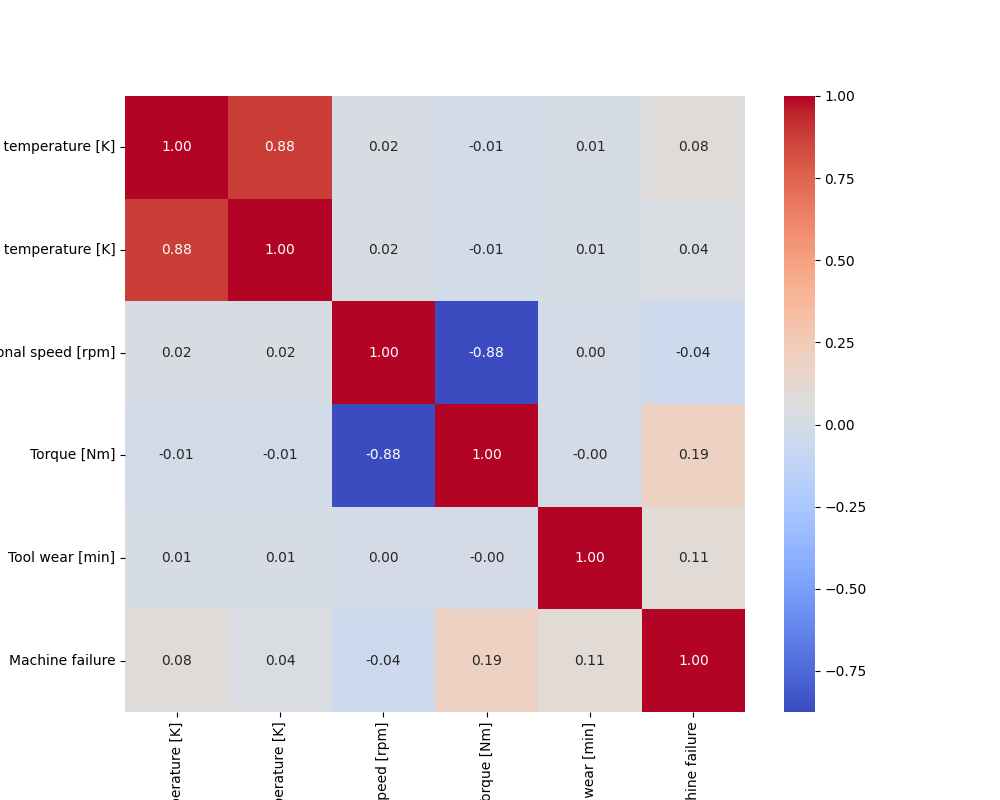
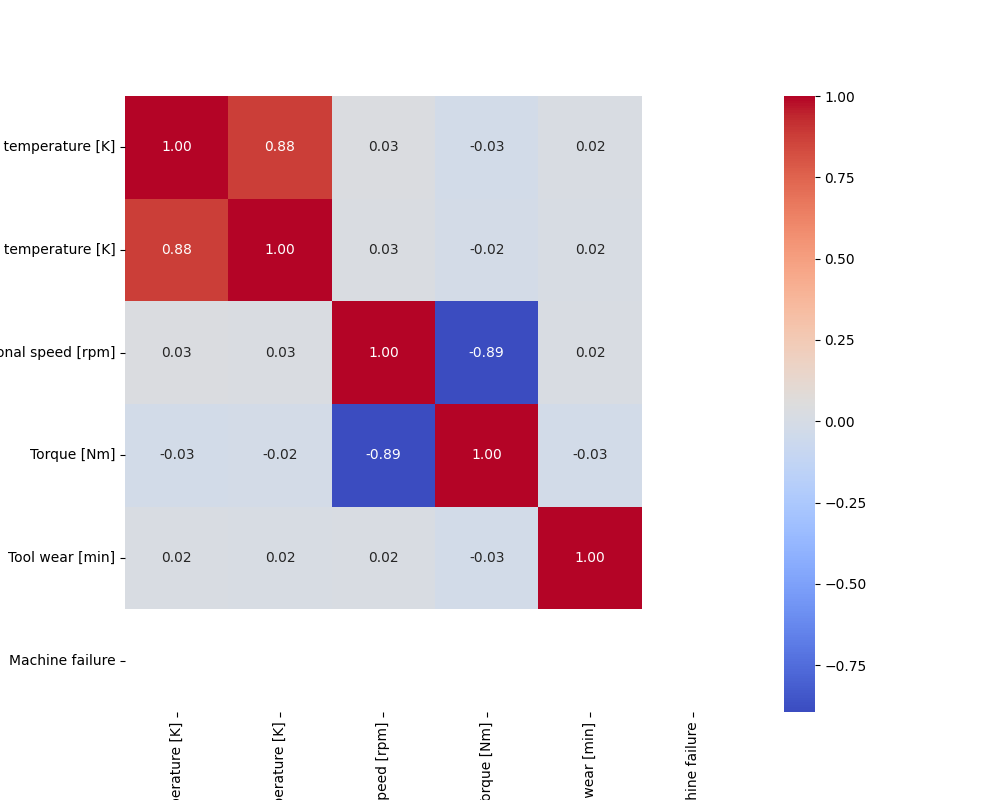
기말고사 보고서

diff --git a/Industrial Safety Prediction Model.py b/Industrial Safety Prediction Model.py
@@ -3,14 +3,25 @@ import matplotlib.pyplot as plt
 import seaborn as sns
 from sklearn.model_selection import train_test_split
 from sklearn.ensemble import RandomForestClassifier
-from sklearn.metrics import accuracy_score, confusion_matrix, mean_squared_error
+from sklearn.metrics import accuracy_score, confusion_matrix
 import os
 
 # 데이터 로드
 file_path = 'data/PredictSafe.csv'
 data = pd.read_csv(file_path)
 
-# 데이터 요약 및 시각화
+# 데이터 전처리 (IQR 방식으로 이상치 처리)
+# 숫자형 데이터에 대해 IQR을 이용한 이상치 제거
+for column in data.columns:
+    if data[column].dtype != 'object':  # 숫자형 데이터에 대해서만 처리
+        Q1 = data[column].quantile(0.25)
+        Q3 = data[column].quantile(0.75)
+        IQR = Q3 - Q1
+        high_limit = Q3 + 1.5 * IQR
+        low_limit = Q1 - 1.5 * IQR
+        data = data[(data[column] <= high_limit) & (data[column] >= low_limit)]
+
+# 데이터 정보 및 통계 확인
 print("데이터 정보:")
 print(data.info())
 print("\n데이터 통계 요약:")
@@ -43,9 +54,16 @@ y_pred = model.predict(X_test)
 
 # 성능 평가
 accuracy = accuracy_score(y_test, y_pred)
-mse = mean_squared_error(y_test, y_pred)
 print(f'Accuracy: {accuracy * 100:.2f}%')
-print(f'Mean Squared Error: {mse:.4f}')
+
+# 성능 평가 그래프
+plt.figure(figsize=(6, 4))
+plt.bar(['Accuracy'], [accuracy], color='green')
+plt.ylim(0, 1)
+plt.title('Model Accuracy')
+plt.ylabel('Accuracy')
+plt.savefig('results/accuracy_graph.png')
+plt.show()
 
 # 혼동 행렬 출력
 conf_matrix = confusion_matrix(y_test, y_pred)
@@ -64,53 +82,4 @@ plt.show()
 # 최종 코드 저장
 os.makedirs('final exam', exist_ok=True)
 final_code_path = 'final exam/Industrial-Safety-Prediction-Model.py'
-with open(final_code_path, 'w') as f:
-    f.write('''"""Final Industrial Safety Prediction Model"""
-import pandas as pd
-import matplotlib.pyplot as plt
-import seaborn as sns
-from sklearn.model_selection import train_test_split
-from sklearn.ensemble import RandomForestClassifier
-from sklearn.metrics import accuracy_score, confusion_matrix
 
-# 데이터 로드
-file_path = 'data/PredictSafe.csv'
-data = pd.read_csv(file_path)
-
-# 독립 변수와 종속 변수 설정
-features = ['Air temperature [K]', 'Process temperature [K]', 'Rotational speed [rpm]', 'Torque [Nm]', 'Tool wear [min]']
-target = 'Machine failure'
-
-X = data[features]
-y = data[target]
-
-# 훈련 데이터와 테스트 데이터로 나누기
-X_train, X_test, y_train, y_test = train_test_split(X, y, test_size=0.2, random_state=42)
-
-# 머신러닝 모델 학습
-model = RandomForestClassifier(n_estimators=100, random_state=42)
-model.fit(X_train, y_train)
-
-# 예측
-y_pred = model.predict(X_test)
-
-# 성능 평가
-accuracy = accuracy_score(y_test, y_pred)
-print(f'Accuracy: {accuracy * 100:.2f}%')
-
-# 혼동 행렬 출력
-conf_matrix = confusion_matrix(y_test, y_pred)
-print('\nConfusion Matrix:')
-print(conf_matrix)
-
-# 혼동 행렬 시각화
-plt.figure(figsize=(8, 6))
-sns.heatmap(conf_matrix, annot=True, fmt='d', cmap='Blues', cbar=False)
-plt.title('Confusion Matrix')
-plt.xlabel('Predicted')
-plt.ylabel('Actual')
-plt.savefig('results/confusion_matrix.png')
-plt.show()
-''')
-
-print(f"최종 코드가 '{final_code_path}'에 저장되었습니다.")
